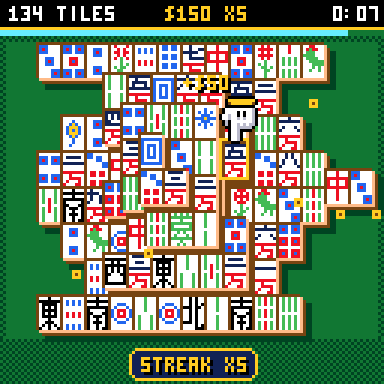
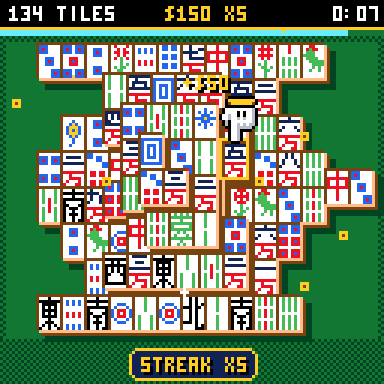
Spinning tiles and rainbow meteors on the title
The title's tiles tumble in the plane or flip over like coins (face, edge,
green back) as they fall, drawn by tile::drawSpun (a turned, squeezed
tile a pixel at a time, from flash, inside its turned box). Every few
seconds a meteor - a close-up tile - streaks across at speed, spinning
hard, trailing sparks in the casino rainbow, over the logo and menu.

The logo and menu rails are drawn again only when the meteor or its
sparks are over them (and the frame after), or the menu changes: the
framebuffer keeps them. 18 tiles stay in view between the rails. The
particle pool is 64.

diff --git a/src/states/Screens.cpp b/src/states/Screens.cpp
@@ -149,18 +149,106 @@ static void newDeal() {
 enum Item : uint8_t { I_PLAY, I_CONTINUE, I_OPTIONS };
 static const char *const ITEM[3] = {"PLAY", "CONTINUE", "OPTIONS"};
 
-struct Faller { int16_t y16; uint8_t x, face, speed; };
-static Faller fallers[12];
+// Tiles tumble down behind the title: some turn in the plane, some flip
+// over like a coin (face, edge, back, edge). Now and then a meteor: one tile
+// streaks across at speed, spinning hard, with a rainbow trail, over
+// everything.
+enum Spin : uint8_t { TUMBLE, FLIP };
+struct Faller {
+    int16_t x16, y16;                // Q4
+    int8_t vx, vy;                   // Q4 a frame
+    uint8_t face, ang, mode;
+    int8_t spin;                     // angle units (256 a turn) a frame
+};
+static Faller fallers[18], meteor;
+static bool meteorOn;
+static uint16_t meteorIn;            // frames until the next
 
-static void dropFaller(Faller &f, int y) {
-    f.x = (uint8_t)(fx::rndRange(1, 59) * 2);
-    f.y16 = (int16_t)(y << 4);
-    f.face = (uint8_t)(fx::rnd() % board::FACES);
-    f.speed = (uint8_t)fx::rndRange(6, 15);
+static int8_t randSpin(int lo, int hi) {
+    int v = fx::rndRange(lo, hi + 1);
+    return (int8_t)(fx::rnd() & 1 ? v : -v);
 }
 
+static void dropFaller(Faller &f, int y) {
+    f.x16 = (int16_t)(fx::rndRange(4, 124) << 4);
+    f.y16 = (int16_t)(y << 4);
+    f.vx = (int8_t)fx::rndRange(-2, 3);
+    f.vy = (int8_t)fx::rndRange(6, 16);
+    f.face = (uint8_t)(fx::rnd() % board::FACES);
+    f.ang = (uint8_t)fx::rnd();
+    f.mode = (uint8_t)(fx::rnd() % 3 == 0 ? FLIP : TUMBLE);
+    f.spin = randSpin(1, 4);
+}
+
+static void launchMeteor() {
+    Faller &m = meteor;
+    bool left = fx::rnd() & 1;
+    m.x16 = (int16_t)((left ? fx::rndRange(-10, 50) : fx::rndRange(78, 138)) << 4);
+    m.y16 = (int16_t)(-20 << 4);
+    m.vx = (int8_t)(left ? fx::rndRange(10, 28) : -fx::rndRange(10, 28));
+    m.vy = (int8_t)fx::rndRange(70, 100);
+    m.face = (uint8_t)(fx::rnd() % board::FACES);
+    m.ang = (uint8_t)fx::rnd();
+    m.mode = (uint8_t)(fx::rnd() & 1 ? FLIP : TUMBLE);
+    m.spin = randSpin(12, 20);
+    meteorOn = true;
+}
+
+static uint8_t titleFull;
+
 static void titleTiles() {
-    for (auto &f : fallers) dropFaller(f, fx::rndRange(-14, 128));
+    // Only the felt between the rails shows (rows ~35-100): they start just
+    // above it, and go round again once below it.
+    for (auto &f : fallers) dropFaller(f, fx::rndRange(22, 100));
+    meteorOn = false;
+    meteorIn = 50;
+    titleFull = 2;
+}
+
+static void moveFaller(Faller &f) {
+    f.x16 = (int16_t)(f.x16 + f.vx);
+    f.y16 = (int16_t)(f.y16 + f.vy);
+    f.ang = (uint8_t)(f.ang + f.spin);
+}
+
+static void titleFallers(uint32_t frame) {
+    for (auto &f : fallers) {
+        moveFaller(f);
+        if (f.y16 > 104 << 4 || f.x16 < -12 << 4 || f.x16 > 140 << 4) dropFaller(f, fx::rndRange(20, 28));
+    }
+    if (meteorOn) {
+        moveFaller(meteor);
+        int x = meteor.x16 >> 4, y = meteor.y16 >> 4;
+        // The trail: sparks in the casino rainbow, left behind as it flies.
+        for (int k = 0; k < 3; k++)
+            fx::spawn(k == 2 ? fx::STAR : fx::SPARK, x + fx::rndRange(-4, 5), y + fx::rndRange(-4, 5),
+                      fx::rndRange(-8, 9) - meteor.vx / 4, fx::rndRange(-12, 3), (uint8_t)fx::rndRange(18, 34),
+                      fx::RAIN[(frame / 2 + k) % 5]);
+        if (y > 150 || x < -30 || x > 158) { meteorOn = false; meteorIn = (uint16_t)fx::rndRange(90, 260); }
+    } else if (!--meteorIn) launchMeteor();
+}
+
+static tile::Face titleFace(uint8_t f) {
+    return opt.faces ? tile::Face{TILE_CELL_EASY[f], TILE_INK_EASY[f], nullptr, 0}
+                     : tile::Face{TILE_CELL_CLASSIC[f], TILE_INK_CLASSIC[f], TILE_CELL_BIG[f], TILE_INK_BIG[f]};
+}
+
+static void drawFaller(const Faller &f, bool big) {
+    static const tile::Style FRONT = {WHITE, SKIN, WOOD, SKIN, WOOD};
+    static const tile::Style BACK = {FELT_LT, FELT_LT, WOOD, SKIN, WOOD};
+    int cs, sn, xs = 256;
+    tile::Face face = titleFace(f.face);
+    const tile::Style *st = &FRONT;
+    if (f.mode == TUMBLE) {
+        cs = fx::isin(f.ang + 64);
+        sn = fx::isin(f.ang);
+    } else {
+        // A flip: upright, squeezed by the turn; past edge-on, its back.
+        cs = 256; sn = 0;
+        xs = fx::isin(f.ang + 64);
+        if (xs < 0) { xs = -xs; face = titleFace(TILE_BACK); st = &BACK; }
+    }
+    tile::drawSpun(face, *st, f.x16 >> 4, f.y16 >> 4, cs, sn, xs, big && face.big);
 }
 
 static uint8_t titleItems(uint8_t *items) {
@@ -185,37 +273,58 @@ static void titleUpdate() {
             case I_OPTIONS: optBack = Scr::Title; go(Scr::Options); break;
         }
     }
-    for (auto &f : fallers) {
-        f.y16 = (int16_t)(f.y16 + f.speed);
-        if (f.y16 > 130 << 4) dropFaller(f, -14);
-    }
+    titleFallers(t);
 }
 
+// The rails (the logo's and the menu's) are drawn again only when the
+// meteor or its sparks are over them, or were last frame (to wipe them), or
+// the menu changes: the framebuffer keeps them. Outlined lettering is the
+// costliest thing on screen.
 static void titleRender(uint32_t frame) {
-    gfx_clear(FELT);
-    for (auto &f : fallers) {
-        static const tile::Style LOOK = {WHITE, SKIN, WOOD, SKIN, WOOD};
-        tile::Face face = opt.faces ? tile::Face{TILE_CELL_EASY[f.face], TILE_INK_EASY[f.face], nullptr, 0}
-                                    : tile::Face{TILE_CELL_CLASSIC[f.face], TILE_INK_CLASSIC[f.face], nullptr, 0};
-        tile::draw(face, f.x, f.y16 >> 4, LOOK);
-    }
-    // The logo on a rail of its own, as the menu: the tiles fall between.
-    gfx_fillRect(0, 0, 128, 34, INK);
-    gfx_hline(0, 34, 128, GOLD);
-    // The logo, in CHBlackjack's lettering and colours: the top rows are
-    // FX_B, so the palette makes it shimmer with no redraw.
-    Mask m = maskBegin(LOGO_W, LOGO_H);
-    maskBlit1(m, LOGO, LOGO_W, LOGO_H);
-    uint8_t ramp[LOGO_H];
-    for (int i = 0; i < LOGO_H; i++) ramp[i] = i < 3 ? FX_B : (i < 12 ? GOLD : WOOD);
-    maskDraw(m, 64 - LOGO_W / 2, 4, INK, WINE, ramp);
-    centred35(26, "~SOLITAIRE~", CYAN);
+    static bool topWas, botWas;
+    static uint32_t menuWas;
     uint8_t items[3], n = titleItems(items);
-    int y0 = 128 - n * 14 - 1;
-    // The menu on a rail of its own: the tiles fall behind it.
-    gfx_fillRect(0, y0 - 5, 128, 128 - y0 + 5, INK);
-    gfx_hline(0, y0 - 6, 128, GOLD);
-    for (uint8_t i = 0; i < n; i++) menuItem(y0 + i * 14, ITEM[items[i]], i == sel, frame);
+    int y0 = 128 - n * 14 - 1, top = 35, bot = y0 - 6;   // the felt between the rails: [top, bot)
+    int lo, hi;
+    bool parts = fx::activeRows(lo, hi);
+    int my = meteor.y16 >> 4;
+    bool full = titleFull != 0;
+    if (titleFull) titleFull--;
+    bool topNow = full || (parts && lo < top) || (meteorOn && my - 20 < top);
+    bool botNow = full || (parts && hi >= bot) || (meteorOn && my + 20 >= bot);
+    uint32_t menu = (uint32_t)n << 8 | sel << 4 | ((frame >> 4) & 1);
+    bool drawTop = topNow || topWas, drawBot = botNow || botWas || menu != menuWas;
+    topWas = topNow;
+    botWas = botNow;
+    menuWas = menu;
+
+    // The felt and the tiles falling on it, every frame.
+    gfx_fillRect(0, top, 128, bot - top, FELT);
+    tile::setClip(top, bot);
+    for (auto &f : fallers) drawFaller(f, false);
+    tile::setClip(0, GFX_H);
+    if (drawTop) {
+        // The logo on a rail of its own, as the menu: the tiles fall between.
+        gfx_fillRect(0, 0, 128, 34, INK);
+        gfx_hline(0, 34, 128, GOLD);
+        // The logo, in CHBlackjack's lettering and colours: the top rows are
+        // FX_B, so the palette makes it shimmer with no redraw.
+        Mask m = maskBegin(LOGO_W, LOGO_H);
+        maskBlit1(m, LOGO, LOGO_W, LOGO_H);
+        uint8_t ramp[LOGO_H];
+        for (int i = 0; i < LOGO_H; i++) ramp[i] = i < 3 ? FX_B : (i < 12 ? GOLD : WOOD);
+        maskDraw(m, 64 - LOGO_W / 2, 4, INK, WINE, ramp);
+        centred35(26, "~SOLITAIRE~", CYAN);
+    }
+    if (drawBot) {
+        // The menu on a rail of its own.
+        gfx_fillRect(0, bot, 128, 128 - bot, INK);
+        gfx_hline(0, bot, 128, GOLD);
+        for (uint8_t i = 0; i < n; i++) menuItem(y0 + i * 14, ITEM[items[i]], i == sel, frame);
+    }
+    // The meteor and its trail, over everything.
+    fx::drawParticles();
+    if (meteorOn) drawFaller(meteor, true);
 }
 
 // ---------------------------------------------------------------------------

diff --git a/src/gfx/Tile.cpp b/src/gfx/Tile.cpp
@@ -144,6 +144,41 @@ RAMFUNC(tilen) static void drawN(const uint8_t *src, int sw, int x, int y, const
     }
 }
 
+void drawSpun(const Face &f, const Style &s, int cx, int cy, int cs, int sn, int xs, bool big) {
+    const uint8_t *cell = big ? f.big : f.cell;
+    uint8_t inks = big ? f.bigInks : f.inks;
+    uint8_t lut[4] = {s.face, s.shade, (uint8_t)(inks & 15), (uint8_t)(inks >> 4)};
+    int w = big ? 2 * W : W, h = big ? 2 * H : H, t = big ? 2 : 1, stride = w >> 2;
+    int ox = w / 2 + t, oy = h / 2 + t;                  // the middle of face and body
+    if (xs < 16) xs = 16;
+    int32_t ix = (65536 + xs / 2) / xs;                  // 1/xs, Q8
+    // Just the box the turned tile covers: half its size, turned.
+    int hw = ((w / 2 + t + 1) * xs) >> 8, hh = h / 2 + t + 1;
+    int acs = cs < 0 ? -cs : cs, asn = sn < 0 ? -sn : sn;
+    int rx = (hw * acs + hh * asn) / 256 + 1, ry = (hw * asn + hh * acs) / 256 + 1;
+    for (int dy = -ry; dy <= ry; dy++) {
+        int yy = cy + dy;
+        if (yy < clipY0 || yy >= clipY1) continue;
+        uint8_t *row = gfx_fb + yy * GFX_FB_STRIDE;
+        // Screen offset -> the tile's own axes: (dx, dy) turned back by the angle.
+        int32_t U = -rx * cs + dy * sn + 128, V = rx * sn + dy * cs + 128;
+        for (int dx = -rx; dx <= rx; dx++, U += cs, V -= sn) {
+            int xx = cx + dx;
+            if ((unsigned)xx >= (unsigned)GFX_W) continue;
+            int x = (int)((U * ix) >> 16) + ox, y = (int)(V >> 8) + oy;
+            uint8_t c;
+            if ((unsigned)x < (unsigned)w && (unsigned)y < (unsigned)h) {
+                if (!cell) continue;
+                c = (!x || !y) ? s.edge : lut[(cell[y * stride + (x >> 2)] >> ((x & 3) * 2)) & 3];
+            } else if (x >= t && x < w + t && y >= t && y < h + t) c = s.side;
+            else if (x >= 2 * t && x < w + 2 * t && y >= 2 * t && y < h + 2 * t) c = s.back;
+            else continue;
+            uint8_t &q = row[xx >> 1];
+            q = (xx & 1) ? (uint8_t)((q & 0x0F) | (c << 4)) : (uint8_t)((q & 0xF0) | c);
+        }
+    }
+}
+
 void draw(const Face &f, int x, int y, const Style &s, int w) {
     bool big = f.big && w > W;
     uint8_t inks = big ? f.bigInks : f.inks;

diff --git a/src/fx/Fx.cpp b/src/fx/Fx.cpp
@@ -57,7 +57,7 @@ int rndRange(int lo, int hi) { return hi > lo ? lo + (int)(rnd() % (uint32_t)(hi
 // Particles
 // ---------------------------------------------------------------------------
 struct Particle { int16_t x, y; int8_t vx, vy; uint8_t life, colour, kind, age; };
-static Particle parts[48];
+static Particle parts[64];
 const uint8_t RAIN[5] = {RED, GOLD, FELT_LT, CYAN, BLUE};
 static int16_t floorY = 122 << 4;       // where coins bounce (Q4)
 
@@ -71,7 +71,7 @@ bool particles() {
 void spawn(Kind k, int x, int y, int vx, int vy, uint8_t life, uint8_t colour) {
     Particle *slot = nullptr;
     for (auto &p : parts) if (!p.life) { slot = &p; break; }
-    if (!slot) slot = &parts[rnd() % 48];                 // steal one
+    if (!slot) slot = &parts[rnd() % 64];                 // steal one
     slot->x = (int16_t)(x << 4); slot->y = (int16_t)(y << 4);
     slot->vx = (int8_t)(vx < -127 ? -127 : vx > 127 ? 127 : vx);
     slot->vy = (int8_t)(vy < -127 ? -127 : vy > 127 ? 127 : vy);

diff --git a/src/gfx/Tile.h b/src/gfx/Tile.h
@@ -40,4 +40,10 @@ struct Face {
 
 void draw(const Face &f, int x, int y, const Style &s, int w = W);
 
+// A tile turned in the plane (cs, sn: the angle's cosine and sine, Q8) and
+// squeezed sideways (xs, Q8, 256 = full width: a flip seen edge-on is
+// small), centred on (cx, cy). big: the 16x24 face (Face::big), else the
+// small one. A pixel at a time, from flash: for the title's falling tiles.
+void drawSpun(const Face &f, const Style &s, int cx, int cy, int cs, int sn, int xs, bool big);
+
 }  // namespace tile
